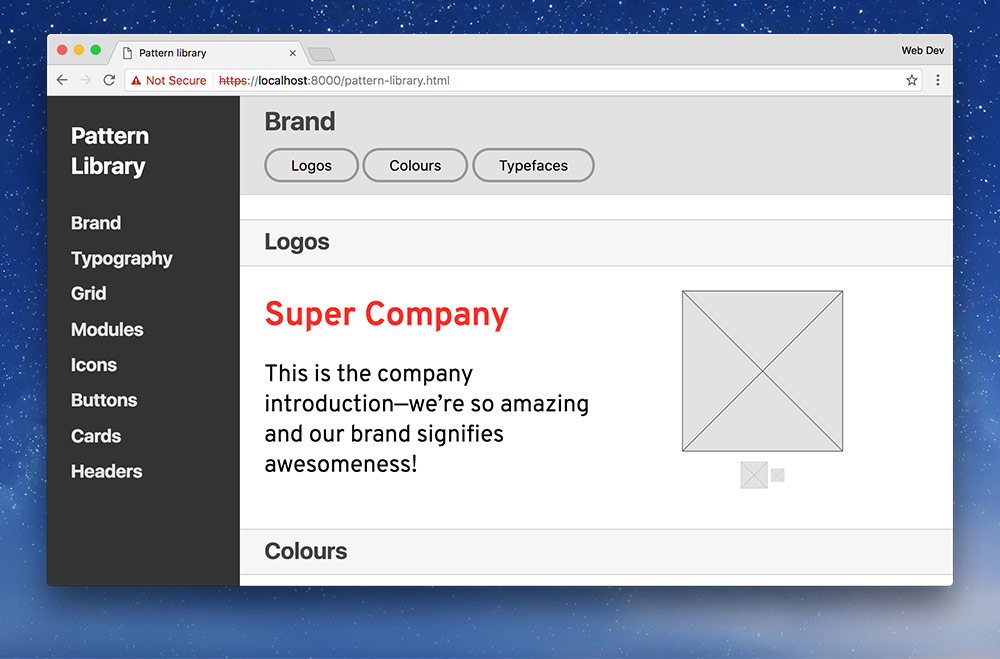
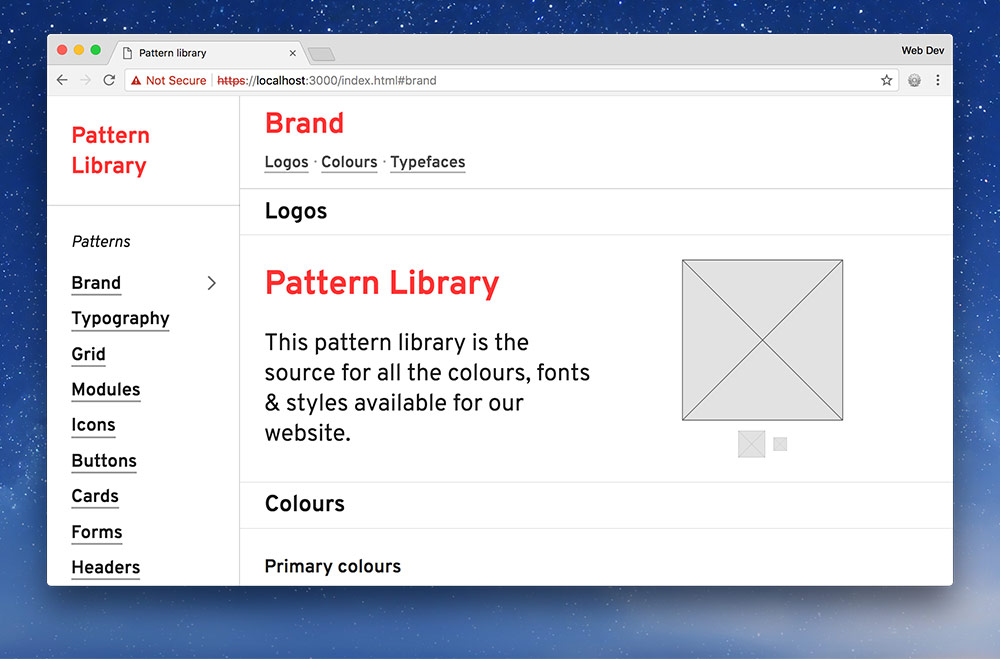
Add & update the week 3 materials

diff --git a/pattern-library-set-up.md b/pattern-library-set-up.md
@@ -9,18 +9,21 @@ extra_tutorials:
   - title: "Pattern libraries slide deck"
     url: "/courses/web-dev-4/pattern-libraries/"
 
+goal:
+  no_image: true
+  before: |
+    We’re going to start the pattern library that you’ll be working for the rest of the term in this lesson.
+
+    We’ll get the first bits set up and ready to use so you can move onto styling the typography.
+  notes:
+    - label: "Type it, type it real good"
+      text: "Remember the purpose of this lesson is to type the code out yourself—build up that muscle memory in your fingers!"
+
+fork:
+  url: "https://github.com/acgd-webdev-4/ecommerce-pattern-library"
+  repo: "ecommerce-pattern-library"
+
 steps:
-  - title: "Set up project"
-    before: |
-      We’re going to start the pattern library that you’ll be working for the rest of the term in this lesson.
-
-      We’ll get the first bits set up and ready to use so you can move onto styling the typography.
-
-      ### [Fork & clone this repo.](https://github.com/acgd-webdev-4/ecommerce-pattern-library/fork)
-    notes:
-      - label: "Type it, type it real good"
-        text: "Remember the purpose of this lesson is to type the code out yourself—build up that muscle memory in your fingers!"
-
   - title: "Get the Web Dev Tools CSS files"
     before: |
       The first step is to get copies of all the [Web Dev Tools](http://web-dev.tools/).
@@ -38,12 +41,14 @@ steps:
       - label: "type.css"
         indent: 2
     after: |
-      1. Make a `modules.css` in your `common` folder—[get a new version from Modulifier](https://modulifier.web-dev.tools/).
-        <br>*Include all the modules you’ll need for your website. (You can always add more later.)*
-      2. Make a `grid.css` in your `common` folder—[get a new version from Gridifier](https://gridifier.web-dev.tools/).
+      1. Make a `modules.css` in a `common` folder—[get a new version from Modulifier](https://modulifier.web-dev.tools/).
+        <br>*Include only the modules you’ll need for your website. (You can always add more later.)*
+      2. Make a `grid.css` in a `common` folder—[get a new version from Gridifier](https://gridifier.web-dev.tools/).
         <br>*Set up the columns and breakpoints you’ll need based on your wireframes.*
-      3. Make a `type.css` in your `common` folder—[get a new version from Typografier](https://typografier.web-dev.tools/).
+      3. Make a `type.css` in a `common` folder—[get a new version from Typografier](https://typografier.web-dev.tools/).
         <br>*Set up the font-sizes and type scales based on your visual design choices.*
+
+      **Notice that the folder is called `common`, instead of `css`. This is because the CSS in this folder is common to every single pattern in the library.**
     notes:
       - label: "Naming conventions"
         text: "Don’t forget to follow the [naming conventions](/topics/naming-paths-cheat-sheet/#naming-conventions)."
@@ -155,7 +160,7 @@ steps:
       - label: "README.md"
         indent: 1
     code_before: |
-      Now open up the README and type the following code. Be sure to substitute this Google Font URL with your own.
+      Now open up the README and type the following code. Be sure to substitute this Google Font URL with your own. *Typekit works too.*
     code_lang: markdown
     code_file: "common/theme.css"
     code: |
@@ -165,11 +170,11 @@ steps:
     lines:
       - num: 2
         text: |
-          Patternbot will use the `fontUrl` to make sure all the type in the builtin patterns is rendered in the correct font family. It will also use the weights and styles provided by Google Fonts to display in the pattern library.
+          Patternbot will use the `fontUrl` to make sure all the type in the builtin patterns is rendered in the correct font family. It will also use the weights and styles provided by the font service to display in the pattern library.
     after: |
       **Make sure the first set of triple dashes (`---`) touches the top of your file—it should be the very first thing.**
 
-      *This URL is the stuff inside the `href="…"` attribute of the `<link>` tag that Google Fonts gives you.*
+      *This URL is the stuff inside the `href="…"` attribute of the `<link>` tag that Google/Typekit gives you.*
 
   - title: "Drop it into Patternbot"
     before: |
@@ -180,28 +185,28 @@ steps:
       Patternbot will generate a bunch of new things for you:
 
       - a new folder named `patterns`—with more folders inside
-        <br>*Don’t touch the folders Patternbot generated inside `patterns`—they’ll just get replaced*
+        <br>*Don’t touch the folders Patternbot generated inside `patterns`—they’ll just get replaced.*
 
-      - a new file named `pattern-library.html`
+      - a new file named `index.html`
         <br>*This is your pattern library website!*
 
-      *We’ll spend more time on the `patterns` folder next week.*
+      **We’ll spend more time on the `patterns` folder next week.**
 
   - title: "View the pattern library"
     before: |
       Many of the features that Patternbot generates and uses are advanced features of browsers and require a web server to function properly.
 
-      If we pop our `pattern-library.html` page open in a browser we’ll see a bunch of error messages—and it won’t work quite right.
+      If we pop our `index.html` page open in a browser we’ll see a bunch of error messages—and it won’t work quite right.
 
       ![](chrome-errors.jpg)
 
       So we need to use Patternbot’s internal web server to load the website.
 
-      ![](browse-menu.jpg)
+      ![](browse.jpg)
 
-      In the `File` menu go to `Browse Pattern Library` (`⌘B`)—this will pop open your default browser with the URL to your pattern library running over with a web server.
+      Press the `Browse Patterns` button (`⌘B`)—this will pop open your default browser with the URL to your pattern library running over with a web server.
 
-      The URL will most likely be: [**https://localhost:8000/**](https://localhost:8000/).
+      The URL will most likely be: [**https://localhost:3000/**](https://localhost:3000/)
 
       ![](chrome-security.jpg)
 

diff --git a/using-css-variables.md b/using-css-variables.md
@@ -3,10 +3,8 @@ layout: lesson
 title: "Using CSS variables"
 desc: "Learn how to use CSS variables to make your CSS more easily understood and more maintainable."
 
-markbot_notes: |
-  *Ignore the “the first heading is an `<h2>`…” error message—but fix everything else.*
-
-  I feel like this is part of a larger website so the `<h1>` would probably be somewhere else on the page.
+markbot_submit: true
+hide_show_for_marks: true
 
 extra_tutorials:
   - title: "CSS variables"
@@ -18,18 +16,19 @@ goal:
       CSS variables are a powerful solution to create reusable information in your CSS that can be changed and manipulated more easily than doing a search and replace.
 
       Another great benefit is that we can give the variables names that make our CSS more obvious instead of having random numbers & colours scattered around.
-
-      **Browser support is decent, but probably not ready for use in a live, client-facing website yet. We’re still waiting for support from Microsoft Edge (though last time I checked it was in development).**
   notes:
     - label: "Type it, type it real good"
       text: "Remember the purpose of this lesson is to type the code out yourself—build up that muscle memory in your fingers!"
     - label: "Browser support"
       text: "Probably not quite ready to be used in a live, client-facing website yet. Still waiting on Microsoft Edge for support."
 
+fork:
+  url: "https://github.com/acgd-webdev-4/using-css-variables"
+
 steps:
   - title: "Set up project"
     before: |
-      To get started we need some HTML & CSS files and we’ll include a copy of Modulifier & Typografier.
+      To get started we need some HTML & CSS files and we’ll include a copy of Modulifier, Gridifier & Typografier.
     folders:
       - label: "using-css-variables"
         type: folder
@@ -42,6 +41,8 @@ steps:
         indent: 2
       - label: "modules.css"
         indent: 2
+      - label: "grid.css"
+        indent: 2
       - label: "type.css"
         indent: 2
     after: |
@@ -49,7 +50,8 @@ steps:
       2. Make an `index.html` & add the boilerplate code.
       3. Make a `main.css` in your `css` folder—it can remain empty.
       4. Make a `modules.css` in your `css` folder—[get a new version from Modulifier](https://modulifier.web-dev.tools/). **Make sure to press “Select All”.**
-      5. Make a `type.css` in your `css` folder—[get a new version from Typografier](https://typografier.web-dev.tools/).
+      5. Make a `grid.css` in your `css` folder—[get a new version from Gridifier](https://gridifier.web-dev.tools/).
+      6. Make a `type.css` in your `css` folder—[get a new version from Typografier](https://typografier.web-dev.tools/).
     notes:
       - label: "Naming conventions"
         text: "Don’t forget to follow the [naming conventions](/topics/naming-paths-cheat-sheet/#naming-conventions)."
@@ -69,6 +71,7 @@ steps:
         <title>Using CSS variables</title>
         <meta name="viewport" content="width=device-width,initial-scale=1">
         <link href="css/modules.css" rel="stylesheet">
+        <link href="css/grid.css" rel="stylesheet">
         <link href="css/type.css" rel="stylesheet">
         <link href="css/main.css" rel="stylesheet">
       </head>
@@ -77,7 +80,7 @@ steps:
         <div class="card chop">
           <img class="img-flex" src="https://placehold.it/320x240" alt="">
           <div class="island">
-            <h2 class="card-title push-0">Giant robots</h2>
+            <h2 class="card-title peta push-0">Giant robots</h2>
             <p>Smashing, crashing, bashing all,<br>Giant robots have real gall.</p>
             <a class="btn" href="#">Destroy!</a>
           </div>
@@ -86,7 +89,7 @@ steps:
       </body>
       </html>
     lines:
-      - num: 17
+      - num: 18
         text: |
           Using the `<br>` tag here is okay because the text is a poem, and in poetry the line breaks are part of the content.
 
@@ -94,7 +97,7 @@ steps:
     before: |
       Let’s add a little CSS to our card to get it looking kinda actually like a card.
 
-      *Some of these properties are temporary and I’ll probably replace them later.*
+      *Some of these properties are temporary and we’ll probably replace them later.*
     code_lang: css
     code_file: "css/main.css"
     code: |

diff --git a/pattern-libraries.md b/pattern-libraries.md
@@ -73,7 +73,7 @@ slides:
 
       - [Fabricator](https://fbrctr.github.io/)
       - [Pattern Lab](http://patternlab.io/)
-      - [Styleguide.](https://hugeinc.github.io/styleguide/)
+      - [Styleguide](https://hugeinc.github.io/styleguide/)
 
   - type: figure
     image: patternbot.jpg
@@ -84,7 +84,7 @@ slides:
     folders:
       - label: "my-pattern-lib"
         type: folder
-      - label: "pattern-library.html"
+      - label: "index.html"
         indent: 1
         notes: "Generated by Patternbot"
       - label: "README.md"

diff --git a/week-03.md b/week-03.md
@@ -18,11 +18,9 @@ tasks:
   - title: "Using CSS variables"
     url: using-css-variables
     type: lesson
-    disabled: true
   - title: "Pattern library set-up"
     url: pattern-library-set-up
     type: lesson
-    disabled: true
   - title: "Typography & colours"
     url: "https://github.com/acgd-webdev-4/typography-colours"
     submit: show

diff --git a/week-02.md b/week-02.md
@@ -8,6 +8,10 @@ group_activities:
     url: finding-ecommerce-patterns
     pair: true
     type: pencil
+    # Needs to be improved!
+    # More description? More examples?
+    # Explain small patterns vs. big patterns?
+    # Make the final board public? Google Doc?
 
 tasks:
   - title: "Browser Buster"
